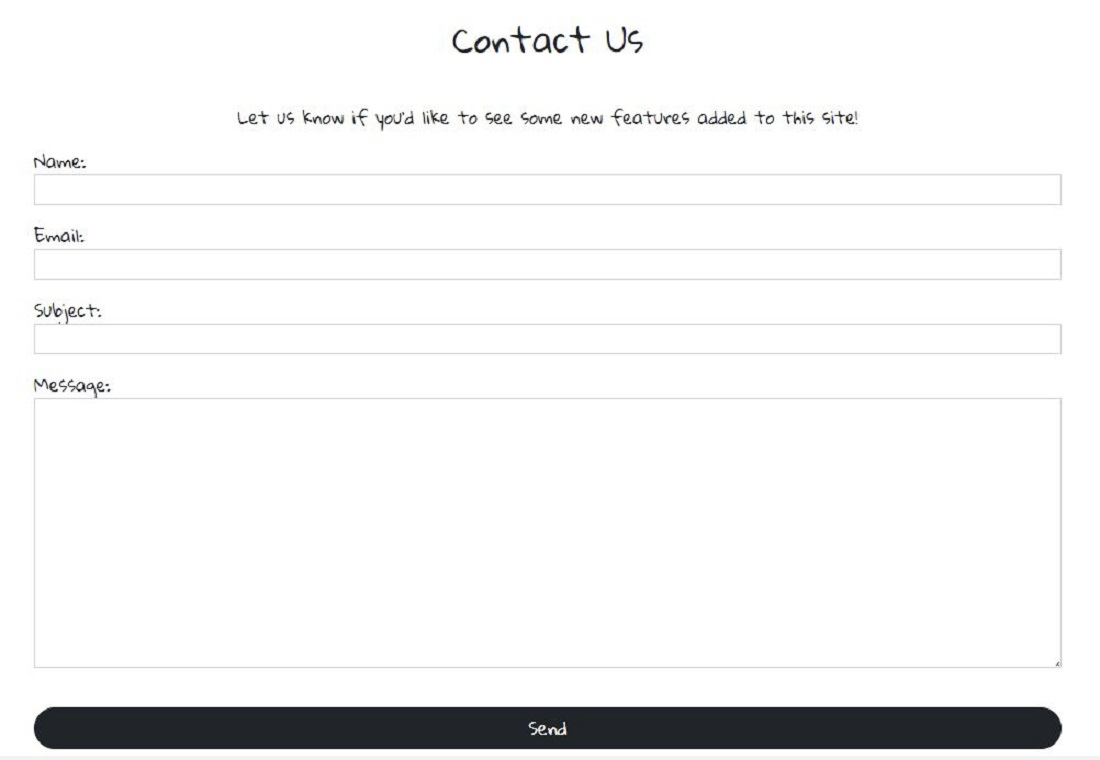
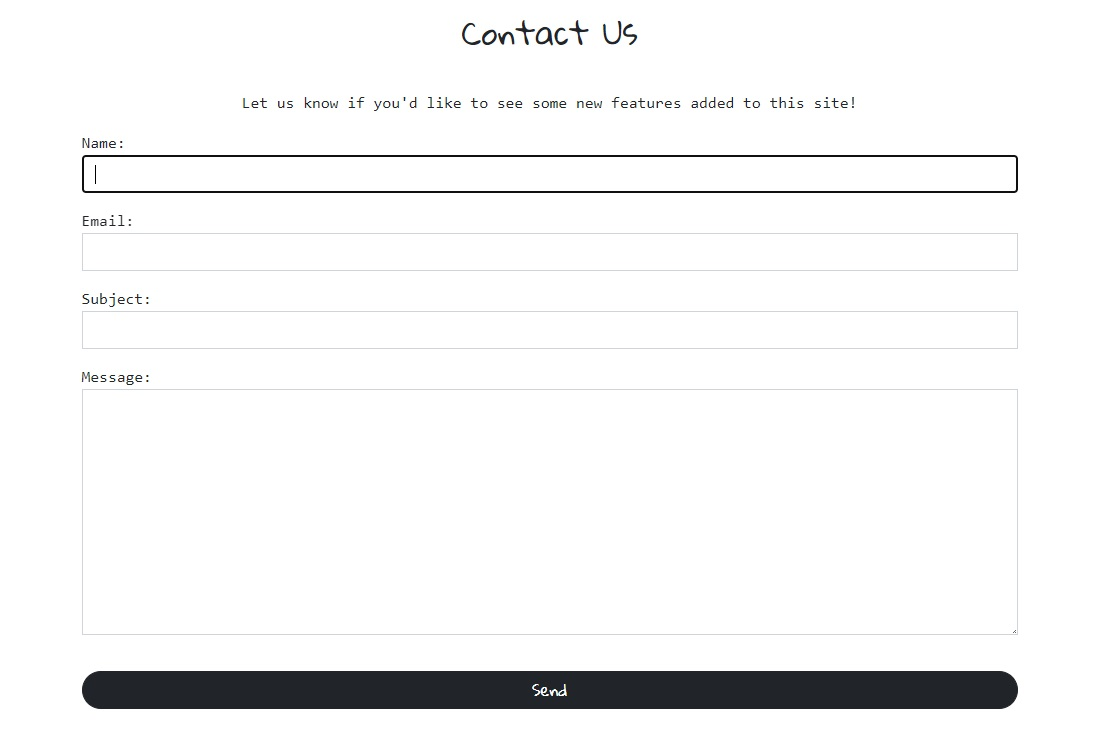
Changed font of all forms to unite them in the same styling across the website. Finalised Agile planning section in README.md file

diff --git a/static/css/style.css b/static/css/style.css
@@ -199,11 +199,13 @@ p.login, a.login {
 
 form.story p {
     width: 85vw;
+    font-family: monospace;
 }
 
 /* Update a story */
 
 .py-3.update form {
+    font-family: monospace;
     display: grid;
     width: 85vw;
 }
@@ -223,6 +225,10 @@ form.story p {
 
 /* Make a comment */
 
+#id_body {
+    width: 85vw;
+}
+
 .btn-dark {
     border-radius: 25px;
 }
@@ -234,6 +240,7 @@ p.comment, a.comment {
 /* Update a story */
 .py-3.contact p {
     display: grid;
+    font-family: monospace;
 }
 
 /* Delete a story */ 
@@ -267,7 +274,6 @@ input {
 
 .py-3 {
     position: relative;
-    font-family: 'Gloria Hallelujah', cursive;
 }
 
 .py-3.contact p {

diff --git a/users/forms.py b/users/forms.py
@@ -24,6 +24,9 @@ class SignUpForm(UserCreationForm):
                   'email', 'password1', 'password2')
 
     def __init__(self, *args, **kwargs):
+        """
+        Function to style user registering fields.
+        """
         super(SignUpForm, self).__init__(*args, **kwargs)
         self.fields['username'].widget.attrs['class'] = 'form-control'
         self.fields['password1'].widget.attrs['class'] = 'form-control'

diff --git a/README.md b/README.md
@@ -1,37 +1,40 @@
 
-# INTRODUCTION 
+# **INTRODUCTION**
 
 Mythos is full-stack framework project built using Django, Python, HTML and CSS. It's a blog-style website where users can read about local myths and legends from all over the world. The objective is for users to be allowed to post, like and comment on blog posts.
 
 Live project can be found [here](https://mythoi.herokuapp.com/).
 
-![Am I Responsive](./media/wireframes/air_main_image.JPG)
+![Am I Responsive](media/wireframes/air_main_image.JPG)
 
 *Please press **Ctrl** in Windows or **Command** on Mac button and click for any links which you would like to open in a new tab when in the README.md file*
 
 
-# USER EXPERIENCE
-## USER STORIES
+# **USER EXPERIENCE**
+## **USER STORIES**
 
 As a site user and site admin I want to be able to login/logout of my account so I can interact with the site’s posts and users
 
-# External user’s goal:
+## **External user’s goal:**
 ## *As a site user:*
 - I can click on a post so I can read it in full.
 - I want to be able to write my own posts and comment on other stories so I can exchange opinions and ideas with other users and the blog owner. This attracts more traffic and makes the site social.
 - I want to be able to like posts so I can show the users and site admin I have liked their content.
 
-# Site owner's goal:
+## **Site owner's goal:**
 ## *As a site admin:*
 - I can create/publish new posts so that I can keep the blog updated and relevant to its purpose
 - I can edit/delete posts so I can correct typos or incorrect information which I may have provided
 
-# AGILE
-The development of this project was managed and implemented using GitHub Project Kanban Board.
-![Kanban](./media/wireframes/kanban_project_issues.JPG)
+# **Agile planning**
+The development of this project was managed and implemented using GitHub project Kanban board and can be located [**here**](https://github.com/AMartins87/mythos/projects/1).
 
-# FEATURES 
-## Main Page
+User stories were labelled as **Must Have**, **Nice to have** and later I reated **future development** label. Documentation like README and TESTING md files were assigned **documentation** label.
+
+![Kanban](media/images/kanban_project_issues.JPG)
+
+# **FEATURES**
+## **Main Page**
 - Navbar (on every page for ease of navigation)
     - Add Story
     - Register
@@ -40,69 +43,76 @@ The development of this project was managed and implemented using GitHub Project
 
 **Hero image with welcome text box and register/login button**
 
-![Navbar image](./media/images/navbar_hero_image.JPG)
+![Navbar image](media/images/navbar_hero_image.JPG)
 
 **Navbar and hero image with welcome text box and logout button (after user login)**
 
-![Navbar image](./media/images/navbar_hero_image_logged_in.JPG)
+![Navbar image](media/images/navbar_hero_image_logged_in.JPG)
 
 **Navbar and hero image with welcome text box and logout button (after admin login)**
 
-![Navbar image](./media/images/admin_login_page_view.JPG)
+![Navbar image](media/images/admin_login_page_view.JPG)
 
 **Navbar with collapsible menu icon for screens with width of 991px or less**
 
-![Mobile navbar image](./media/images/navbar_small_screens.JPG)
+![Mobile navbar image](media/images/navbar_small_screens.JPG)
     
 **Footer**
 - Copyright information
 - Social media links for YouTube, Twitter, Facebook
 
-![Footer image](./media/images/footer.JPG)
+![Footer image](media/images/footer.JPG)
 
 ## Latest stories
 
-**Latest stories** section where all story previews with uploaded image show up in list order with  ***Read full story*** click through link which will take the user to the full story
+**Latest stories** section where are all stories' previews with uploaded image and they show up in a list order, in descending order from the latest uploaded posts to the oldest ones, with  ***Read full story*** click through link which will take the user to the full story
 
-![Latest stories](./media/images/latest_stories_section.JPG)
+![Latest stories](media/images/latest_stories_section.JPG)
 
 If users don't upload their own images, an image will feed through from Cloudinary as a placeholder
 
-![Latest stories with placeholder image](./media/images/latest_stories_section_no_image.JPG)
+![Latest stories with placeholder image](media/images/latest_stories_section_no_image.JPG)
 
 Page with the full view of the story as an user
 
-![Full story](./media/images/story_page_user_view.JPG)
+![Full story](media/images/story_page_user_view.JPG)
 
 Page with the full view of the story as an author which shows *edit* and *delete* links underneath the author's name & date of posting
 
-![Full story](./media/images/story_page_author_view.JPG)
+![Full story](media/images/story_page_author_view.JPG)
 
-## Add comment page
-
-![Add comment page](./media/images/add_comment_page.JPG)
-
-## Add story page
+## **Add story page**
 
 If users are not logged in it will redirect them to login page before they can add a story.
 
 Otherwise users are taken to the correct page immediately. They must fill in **title**, add **story** text and can choose to upload an image if they wish so. This image is then saved to my Cloudinary database
 
-![Add story page](./media/images//add_story_page.JPG)
+![Add story page](media/images//add_story_page.JPG)
 
-## Delete post page
+## **Add comment page**
+
+Comments can be only left if users are registered and logged in
+
+![Add comment page look when not logged in](media/images/add_comment_page_not_logged_in.png)
+
+Once logged in, the page requires only a comment input
+
+![Add comment page look when logged in](media/images/add_comment_page.JPG)
+
+## **Delete post page**
 
 Users are shown title of the story to be deleted and asked if they are sure to delete and two buttons are shown - *Delete* abd *Go back* which will take the user back to home page
 
-![Delete post](./media/images/delete_post_page.JPG)
+![Delete post page](media/images/delete_post_page.JPG)
 
-## Contact page
+
+## **Contact page**
 
 Users can contact the site administrator by filling in simple form on screen where they are required to give their **name**, **email address**, **subject** and then type in their **message**
 
-![Contact page](./media/images/contact_page.JPG)
+![Contact page](media/images/contact_page.JPG)
 
-# Wireframes
+# **Wireframes**
 Wireframes were created using Balsamiq.
 
 ![Home Page](media/wireframes/Wireframes%20_Home_Page.png)
@@ -111,36 +121,40 @@ Wireframes were created using Balsamiq.
 ![Login Page](media/wireframes/Wireframes_Login_Page.png)
 ![Contact Page](media/wireframes/Wireframes_Contact_Page.png)
 
+---
 
+# **TESTING**
+See all testing documentation **[here](/TESTING.md)**.
 
-# TESTING
-See all testing documentation [here](/TESTING.md).
+--- 
 
-# BUGS
-## Fixed bugs
+# **BUGS**
+## **Fixed bugs**
 
 1. When I returned after my study break I had to reinstall all the Django libraries and packages which I have all successfully installed. I had to contact Tutor Support as I wasn't sure where the issue was. 
 It was a very simple fix - I forgot to recreate a new *env.py* file. 
 2. When trying to open up the browser with command *python3 manage.py runserver*, there was an error coming up. As I haven't made any changes since I worked on the project the previous night and all worked then, I decided to contact **Tutor Support** as the error was completely unknown to me. Again this was an easy fix, as Heroku has run updates and I had to only copy over a new **DATABASE_URL** into my *env.py* file.
 
-    ![Bug image 1](/media/images/bug_4jul.JPG)
+    ![Bug image 1](media/images/bug_4jul.JPG)
 
 3. After creating a model for adding posts and installing ckeditor, I tried to migrate but it was coming up with an error messages and my page has crashed as well. 
     - I reverted all migrations I made till this point, using a command *./manage.py migrate blog zero*, then I proceeded with *python manage.py makemigrations > python manage.py migrate* and all was ok then.
 
-        ![Bug image 2](/media/images/browser_error.png)
-        ![Bug image 3](/media/images/terminal_error.png)
+        ![Bug image 2](media/images/browser_error.png)
+        ![Bug image 3](media/images/terminal_error.png)
 
 4. During the final testing I found out my collapsible menu icon is not opening up the menu on smaller screens. The issue got fixed by reverting from Bootstrap version 5.1.3 to 4.3.1. 
 
-## Unfixed bugs
+## **Unfixed bugs**
 
 No known unfixed bugs.
 
-# DEPLOYMENT
+---
+
+# **DEPLOYMENT**
 This project was created in GitHub and deployed to Heroku. 
 
-## Following steps were taken in deployment of this project: 
+## **Following steps were taken in deployment of this project:**
 
 1.  Using the CI full template, new repository was created and named Mythos
 2.  When in the new repository, following Django packages and supporting libraries were installed by using the command ***pip3 install*** : **Gunicorn, Psycopg, Cloudinary**.
@@ -156,9 +170,10 @@ This project was created in GitHub and deployed to Heroku.
 12. Deployed content manually through Heroku by going to *Deploy* tab, connected my **GitHub** account and found my repository and connected it with **Heroku**
 13. Pressed *Enable Automatic Deploys* and then pressed *Deploy Branch* button. Once this finished, I opened my app to check all works
 
-# CREDITS
+--- 
 
-## MEDIA
+# **CREDITS**
+## **MEDIA**
 
 **Hero image** on home page was created by me in [Canva](canva.com)
 **Placeholder image** which is used as a placeholder image when users don't upload their own was create by me in [Canva](canva.com)
@@ -171,26 +186,26 @@ This project was created in GitHub and deployed to Heroku.
 
 [Slender Man](https://villains.fandom.com/f/t/Slender%20Man) - no author provided for this iamge
 
-## ACKNOWLEDGMENT
+## **ACKNOWLEDGMENT**
 
-### Code Institute
+### **Code Institute**
 - For providing the basic structure via the walkthrough project Codestar for my blog project
 
-### [Tutor Support](https://learn.codeinstitute.net/ci_support/diplomainsoftwaredevelopmentecommerce/tutor)
+### **[Tutor Support](https://learn.codeinstitute.net/ci_support/diplomainsoftwaredevelopmentecommerce/tutor)**
 - For helping with restarting my project and helping me found the core of the issue
 - For guiding on how to fix a bug when my project didn't want to open up
 
-### [Django documentation](https://docs.djangoproject.com/en/4.0/) 
+### **[Django documentation](https://docs.djangoproject.com/en/4.0/)**
 - I relied heavily on this page during the development of my project
 
-### [Stack Overflow](https://stackoverflow.com/)
+### **[Stack Overflow](https://stackoverflow.com/)**
 - I searched for quite few styling issues I was facing when trying to adjust the standard Bootstrap shell look. I have always found an answer/solution on there when I couldn't find solution on Bootstrap site
 
-### [Bootstrap](https://getbootstrap.com/docs/5.0)
+### **[Bootstrap](https://getbootstrap.com/docs/5.0)**
 - Thank you for providing the basic styling for my project
 
-### [Geeks for Geeks](https://www.geeksforgeeks.org/form-as_p-render-django-forms-as-paragraph/)
+### **[Geeks for Geeks](https://www.geeksforgeeks.org/form-as_p-render-django-forms-as-paragraph/)**
 - This helped me to simplify all forms used on my project
 
-### [W3Schools](https://www.w3schools.com/)
+### **[W3Schools](https://www.w3schools.com/)**
 - Thank you for helping me with implementing an image text block on my home page

diff --git a/TESTING.md b/TESTING.md
@@ -147,18 +147,17 @@ All of these opened respective social media sites in new windows as expected.
 
 ---
 
-
 All of these tests were performed on desktop PC, Dell laptop and iPhone8, iPhone 8, iPhone 12 and iPad Pro and worked as planned. The app was responsive and very easy to navigate.
 
-
-
 ### SUMMARY OF ALL TESTS 
+- Menu links tested
 - Login and registration
 - Added a post with and without an image
 - Edited and deleted a post as an author
 - Commented on a post
 - Used the like button
 - Filled in the contact form 
+- Tested all footer social media links
 
 ---
 
